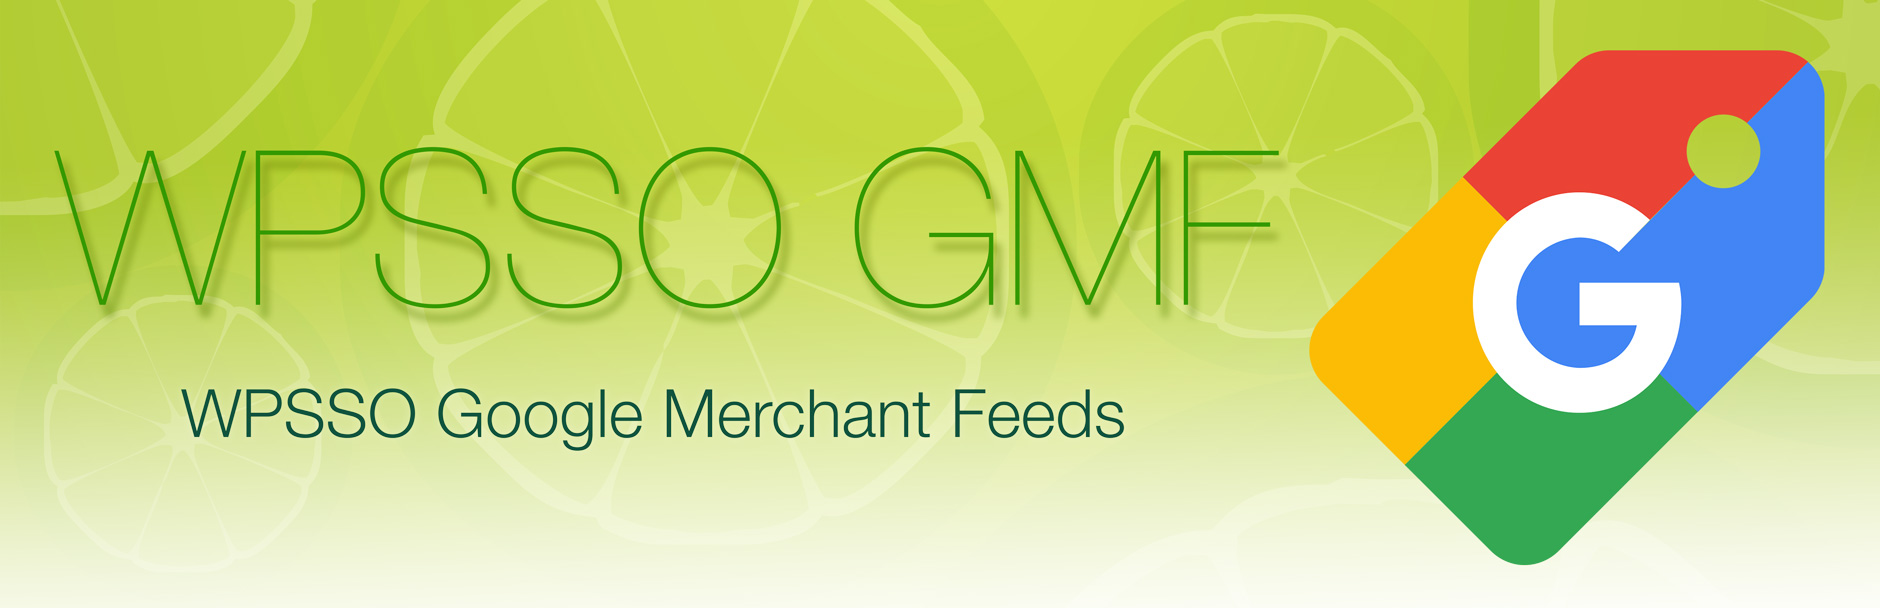
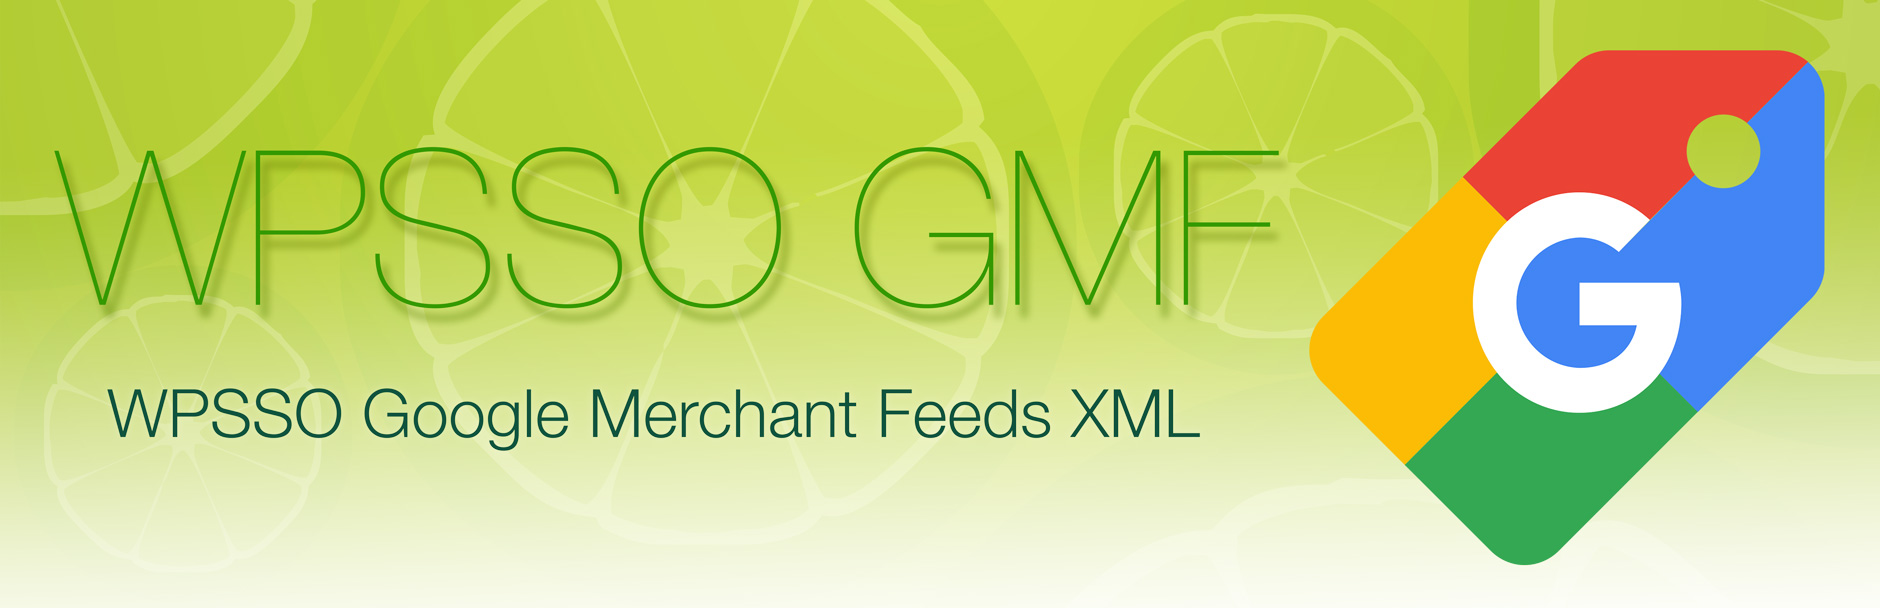
non-essential support files (documentation and assets)

Changed region(s): [[0.0617, 0.625, 0.6479, 0.75]]

diff --git a/index.html b/index.html
@@ -25,10 +25,10 @@
         </ul>
       </header>
       <section>
-<h1>WPSSO Google Merchant Feeds</h1>
+<h1>WPSSO Google Merchant Feeds XML</h1>
 
 <table>
-<tr><th align="right" valign="top" nowrap>Plugin Name</th><td>WPSSO Google Merchant Feeds</td></tr>
+<tr><th align="right" valign="top" nowrap>Plugin Name</th><td>WPSSO Google Merchant Feeds XML</td></tr>
 <tr><th align="right" valign="top" nowrap>Summary</th><td>Google Merchant Feeds for WooCommerce, Easy Digital Downloads, and Custom Products (WPSSO Core Premium Required).</td></tr>
 <tr><th align="right" valign="top" nowrap>Stable Version</th><td>1.1.0</td></tr>
 <tr><th align="right" valign="top" nowrap>Requires PHP</th><td>7.2 or newer</td></tr>
@@ -44,17 +44,17 @@
 
 <!-- about -->
 
-<p>The WPSSO Google Merchant Feeds add-on can retrieve product information from WPSSO Core Premium and provide maintenance free XML feeds for each available language (as dictated by Polylang, WPLM, or the installed WordPress languages).</p>
+<p>The WPSSO Google Merchant Feeds XML add-on can retrieve product information from WPSSO Core Premium and provide maintenance free XML feeds for each available language (as dictated by Polylang, WPLM, or the installed WordPress languages).</p>
 
-<p>There are no plugin or add-on settings to configure &mdash; the WPSSO Google Merchant Feeds add-on automatically retrieves all available product information in the language (aka locale) requested.</p>
+<p>There are no plugin or add-on settings to configure &mdash; the WPSSO Google Merchant Feeds XML add-on automatically retrieves all available product information in the language (aka locale) requested.</p>
 
-<p>A supported e-commerce plugin, like WooCommerce or Easy Digital Downloads, is suggested but not required &mdash; the WPSSO Google Merchant Feeds add-on can also retrieve custom product information entered in the WordPress editor Document SSO metabox. WooCommerce product variations and additional WooCommerce product attributes are fully supported.</p>
+<p>A supported e-commerce plugin, like WooCommerce or Easy Digital Downloads, is suggested but not required &mdash; the WPSSO Google Merchant Feeds XML add-on can also retrieve custom product information entered in the WordPress editor Document SSO metabox. WooCommerce product variations and additional WooCommerce product attributes are fully supported.</p>
 
 <h3>An XML Feed for Each Language</h3>
 
 <p>Google merchant XML feeds for WooCommerce, Easy Digital Downloads, and custom products are automatically created for each available language (as dictated by Polylang, WPLM, or the installed WordPress languages).</p>
 
-<p>After activating the WPSSO Google Merchant Feeds add-on, see the SSO &gt; Google Merchant Feeds settings page for a complete list of available feed URLs.</p>
+<p>After activating the WPSSO Google Merchant Feeds XML add-on, see the SSO &gt; Google Merchant Feeds settings page for a complete list of available feed URLs.</p>
 
 <!-- /about -->
 
@@ -91,7 +91,7 @@
 
 <h3>WPSSO Core Premium Required</h3>
 
-<p>WPSSO Google Merchant Feeds (WPSSO GMF) is an add-on for the <a href="https://wpsso.com/extend/plugins/wpsso/">WPSSO Core Premium plugin</a>.</p>
+<p>WPSSO Google Merchant Feeds XML (WPSSO GMF) is an add-on for the <a href="https://wpsso.com/extend/plugins/wpsso/">WPSSO Core Premium plugin</a>.</p>
 
 <p><strong>The WPSSO Core Premium plugin provides:</strong></p>
 
@@ -107,8 +107,8 @@
 <h3 class="top">Install and Uninstall</h3>
 
 <ul>
-<li><a href="https://wpsso.com/docs/plugins/wpsso-google-merchant-feed/installation/install-the-plugin/">Install the WPSSO Google Merchant Feeds add-on</a>.</li>
-<li><a href="https://wpsso.com/docs/plugins/wpsso-google-merchant-feed/installation/uninstall-the-plugin/">Uninstall the WPSSO Google Merchant Feeds add-on</a>.</li>
+<li><a href="https://wpsso.com/docs/plugins/wpsso-google-merchant-feed/installation/install-the-plugin/">Install the WPSSO Google Merchant Feeds XML add-on</a>.</li>
+<li><a href="https://wpsso.com/docs/plugins/wpsso-google-merchant-feed/installation/uninstall-the-plugin/">Uninstall the WPSSO Google Merchant Feeds XML add-on</a>.</li>
 </ul>
 
 
